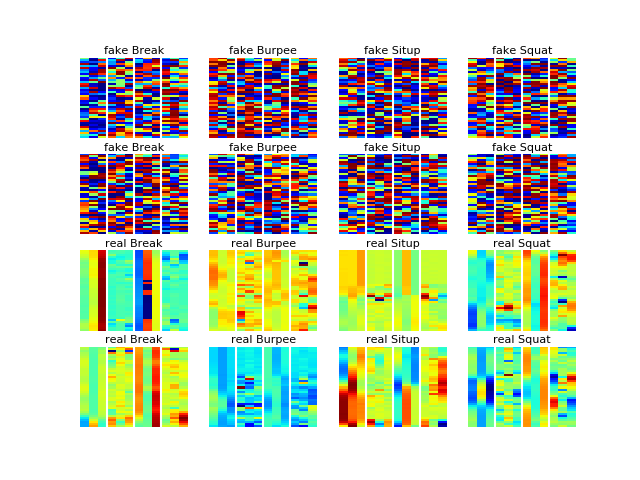
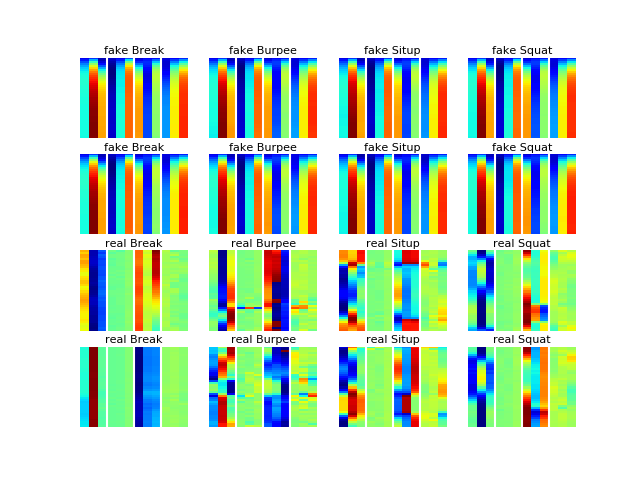
added lstm layers to generator

diff --git a/ExermoteSgan/exermote_sgan/exermote_sgan.py b/ExermoteSgan/exermote_sgan/exermote_sgan.py
@@ -58,11 +58,11 @@ class SGAN:
 
         model.add(Conv1D(self.nodes_per_layer, self.filter_length, strides=2, activation="relu",
                          input_shape=(self.timesteps, self.features)))
-        model.add(BatchNormalization(momentum=0.8))
+        #model.add(BatchNormalization(momentum=0.8))
         model.add(Conv1D(self.nodes_per_layer, self.filter_length, strides=1, activation="relu"))
-        model.add(BatchNormalization(momentum=0.8))
+        #model.add(BatchNormalization(momentum=0.8))
         model.add(LSTM(self.nodes_per_layer, return_sequences=True))
-        model.add(BatchNormalization(momentum=0.8))
+        #model.add(BatchNormalization(momentum=0.8))
         model.add(LSTM(self.nodes_per_layer, return_sequences=False))
         model.add(Dropout(self.dropout))
 
@@ -75,13 +75,16 @@ class SGAN:
 
         model = Sequential()
 
-        model.add(Dense(self.timesteps * self.features * self.nodes_per_layer, activation="relu", input_dim=100))
-        model.add(Reshape((self.timesteps, self.features, self.nodes_per_layer)))
-        model.add(BatchNormalization(momentum=0.8))
+        model.add(Dense(self.timesteps * self.features * 1, activation="relu", input_dim=100))
+        model.add(Reshape((self.timesteps, self.features)))
+        model.add(LSTM(self.features, return_sequences=True))
+        model.add(LSTM(self.features, return_sequences=True))
+        model.add(Reshape((self.timesteps, self.features, 1)))
+        #model.add(BatchNormalization(momentum=0.8))
         model.add(Conv2D(self.nodes_per_layer, kernel_size=3, padding="same", activation="relu"))
-        model.add(BatchNormalization(momentum=0.8))
+        #model.add(BatchNormalization(momentum=0.8))
         model.add(Conv2D(self.nodes_per_layer, kernel_size=3, padding="same", activation="relu"))
-        model.add(BatchNormalization(momentum=0.8))
+        #model.add(BatchNormalization(momentum=0.8))
         model.add(Conv2D(1, kernel_size=3, padding="same", activation="tanh"))
 
         random_labels = Input(shape=(self.num_classes + 1,), name="random_labels")
@@ -138,7 +141,8 @@ class SGAN:
         noise = random.normal(0, 1, (half_batch_size, 100 - (self.num_classes + 1)))
         gen_accelerations = self.generator.predict([random_labels, noise])
 
-        print("Generator - Mean:" + str(mean(gen_accelerations)))
+        print("Generator - Mean: " + str(mean(gen_accelerations)) + " Std: " + str(std(gen_accelerations)))
+        print("Discriminator - Mean: " + str(mean(accelerations)) + " Std: " + str(std(accelerations)))
 
         labels = y[idx]
         fake_labels = to_categorical(full((half_batch_size, 1), self.num_classes), num_classes=self.num_classes + 1)
@@ -202,10 +206,10 @@ class SGAN:
 
         for epoch in range(epochs):
 
-            if d_loss[0] >= g_loss:
-                d_loss = self.__train_discrimantor(X=X, y=hot_encoded_y, batch_size=batch_size, class_weights=class_weights)
-            else:
-                g_loss = self.__train_generator(batch_size=batch_size, class_weights=class_weights)
+            #if d_loss[0] >= g_loss:
+            d_loss = self.__train_discrimantor(X=X, y=hot_encoded_y, batch_size=batch_size, class_weights=class_weights)
+            #else:
+            g_loss = self.__train_generator(batch_size=batch_size, class_weights=class_weights)
 
             self.__print_progress(epoch=epoch, d_loss=d_loss, g_loss=g_loss)
 
